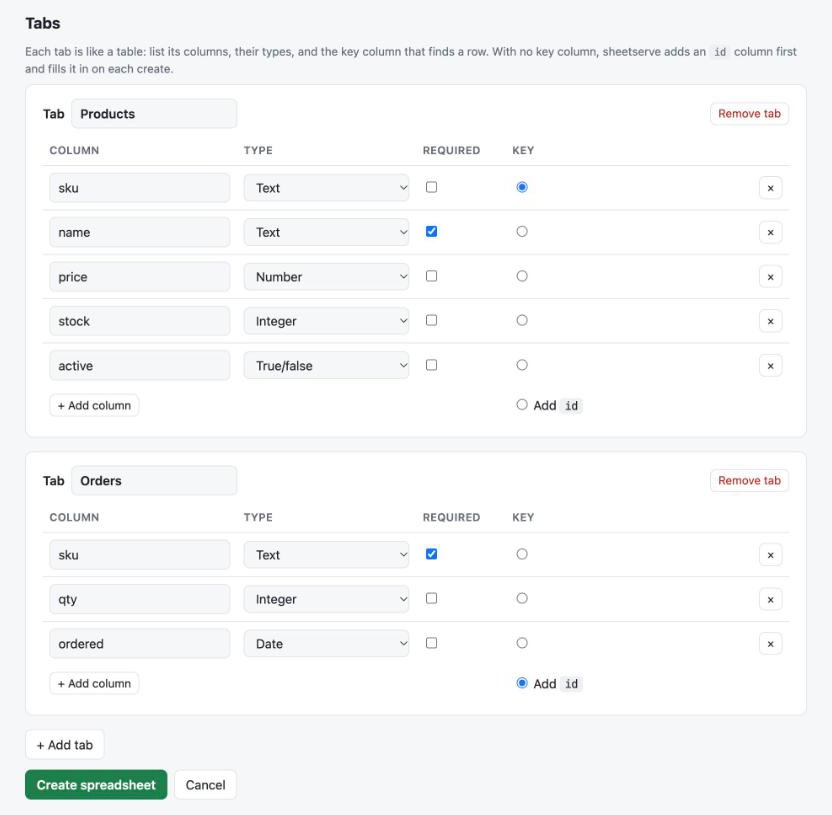
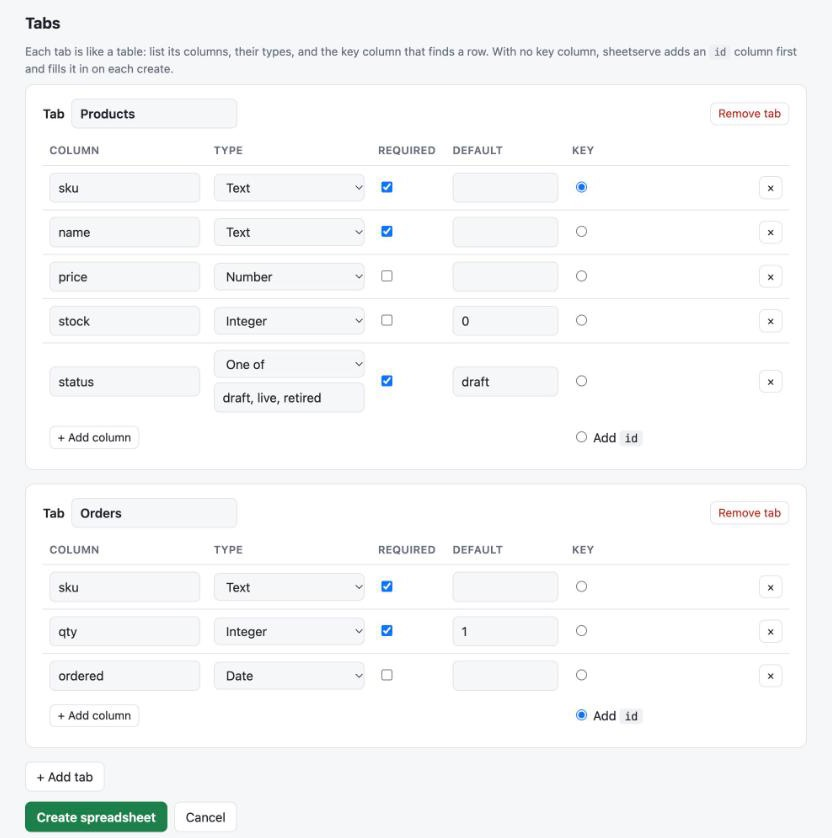
Stamp the commit, send X-Total-Count, refresh the create screenshot
Production logs said version "dev (unknown)". The Dockerfile now takes
a GIT_COMMIT build arg, and when a build has none, the version package
reads RENDER_GIT_COMMIT at startup.

List responses send X-Total-Count, how many rows match the filters
before limit and offset, so clients can page. CORS exposes it, and the
OpenAPI spec documents it.

The README's create-spreadsheet screenshot shows the Default column and
an enum.

diff --git a/internal/service/service.go b/internal/service/service.go
@@ -254,19 +254,20 @@ type cond struct {
 	val string
 }
 
-// List returns rows matching every filter, sorted by sort ("col" or "-col" for descending), then paged.
+// List returns rows matching every filter, sorted by sort ("col" or "-col" for descending), then
+// paged, and how many rows matched before paging.
 // Filter keys are "col" or "col[op]". An exact column name always wins over a sort prefix or filter
 // suffix, so columns named "-x" or "x[ne]" stay reachable.
-func (s *Service) List(ctx context.Context, sheet, tab string, filter map[string]string, sort string, limit, offset int) ([]map[string]any, error) {
+func (s *Service) List(ctx context.Context, sheet, tab string, filter map[string]string, sort string, limit, offset int) (_ []map[string]any, total int, err error) {
 	if limit < 0 {
-		return nil, BadRequest("invalid limit")
+		return nil, 0, BadRequest("invalid limit")
 	}
 	if offset < 0 {
-		return nil, BadRequest("invalid offset")
+		return nil, 0, BadRequest("invalid offset")
 	}
 	snap, err := s.load(ctx, sheet, tab, false)
 	if err != nil {
-		return nil, err
+		return nil, 0, err
 	}
 	visible := s.visibleColumns(snap, sheet, tab)
 	// Filtering or sorting on a hidden column would leak its values.
@@ -282,24 +283,21 @@ func (s *Service) List(ctx context.Context, sheet, tab string, filter map[string
 		if j := strings.LastIndex(k, "["); j > 0 && strings.HasSuffix(k, "]") && !slices.Contains(visible, k) {
 			name, op = k[:j], k[j+1:len(k)-1]
 			if !slices.Contains(filterOps, op) {
-				return nil, BadRequest("unknown operator %q (want one of %v)", op, filterOps)
+				return nil, 0, BadRequest("unknown operator %q (want one of %v)", op, filterOps)
 			}
 		}
 		i, err := column(name)
 		if err != nil {
-			return nil, err
+			return nil, 0, err
 		}
 		col := s.columns(sheet, tab)[name]
 		if v, err = filterValue(col, k, op, v); err != nil {
-			return nil, err
+			return nil, 0, err
 		}
 		conds = append(conds, cond{i, col.Type, op, v})
 	}
 	var matched [][]any
 	for _, row := range snap.rows {
-		if sort == "" && limit > 0 && len(matched) == offset+limit {
-			break // unsorted: the page is already complete
-		}
 		if !slices.ContainsFunc(conds, func(c cond) bool { return !c.match(cell(row, c.col)) }) {
 			matched = append(matched, row)
 		}
@@ -311,7 +309,7 @@ func (s *Service) List(ctx context.Context, sheet, tab string, filter map[string
 		}
 		i, err := column(name)
 		if err != nil {
-			return nil, err
+			return nil, 0, err
 		}
 		slices.SortStableFunc(matched, func(a, b []any) int {
 			c := compare(cell(a, i), cell(b, i))
@@ -321,6 +319,7 @@ func (s *Service) List(ctx context.Context, sheet, tab string, filter map[string
 			return c
 		})
 	}
+	total = len(matched)
 	matched = matched[min(offset, len(matched)):]
 	if limit > 0 {
 		matched = matched[:min(limit, len(matched))]
@@ -329,7 +328,7 @@ func (s *Service) List(ctx context.Context, sheet, tab string, filter map[string
 	for _, row := range matched {
 		out = append(out, s.toObject(snap, row, sheet, tab))
 	}
-	return out, nil
+	return out, total, nil
 }
 
 func cell(row []any, i int) string {

diff --git a/internal/api/api_test.go b/internal/api/api_test.go
@@ -405,7 +405,8 @@ func TestCORS(t *testing.T) {
 		!strings.Contains(rec.Header().Get("Access-Control-Allow-Headers"), "Authorization") {
 		t.Errorf("preflight: %d %v", rec.Code, rec.Header())
 	}
-	if rec := req("GET", "https://app.example"); rec.Code != 401 || rec.Header().Get("Access-Control-Allow-Origin") == "" {
+	if rec := req("GET", "https://app.example"); rec.Code != 401 || rec.Header().Get("Access-Control-Allow-Origin") == "" ||
+		rec.Header().Get("Access-Control-Expose-Headers") != "X-Total-Count" {
 		t.Errorf("actual request should carry CORS headers: %d %v", rec.Code, rec.Header())
 	}
 	if rec := req("OPTIONS", "https://evil.example"); rec.Code == 204 || rec.Header().Get("Access-Control-Allow-Origin") != "" ||
@@ -681,5 +682,39 @@ func TestEnumAndDefaultSchemas(t *testing.T) {
 		if !strings.Contains(spec, want) {
 			t.Errorf("spec lacks %s: %s", want, spec)
 		}
+	}
+}
+
+// A list sends how many rows matched its filters, before limit and offset, as X-Total-Count.
+func TestTotalCount(t *testing.T) {
+	cfg := &db.Settings{
+		Spreadsheets: map[string]db.SheetRule{"shop": {ID: "SS", Tabs: map[string]db.TabRule{"Orders": {Ops: []string{"read"}}}}},
+		Keys:         []db.Key{{Name: "admin", Hash: db.HashKey("admin-key"), Tabs: []string{"*"}}},
+	}
+	if err := cfg.Validate(); err != nil {
+		t.Fatal(err)
+	}
+	store := &fakeStore{tabs: map[string][][]any{"SS/Orders": {{"id", "item"}, {"a", "tea"}, {"b", "mug"}, {"c", "tea"}, {"d", "tea"}}}}
+	h := New(cfg, service.New(cfg, store, 0)).Mux()
+	for path, want := range map[string]struct {
+		total string
+		rows  int
+	}{
+		"/v1/shop/Orders":                           {"4", 4},
+		"/v1/shop/Orders?limit=2":                   {"4", 2},
+		"/v1/shop/Orders?item=tea&limit=1&offset=1": {"3", 1},
+		"/v1/shop/Orders?item=tea&offset=9":         {"3", 0},
+	} {
+		req := httptest.NewRequest("GET", path, nil)
+		req.Header.Set("Authorization", "Bearer admin-key")
+		rec := httptest.NewRecorder()
+		h.ServeHTTP(rec, req)
+		var rows []map[string]any
+		if err := json.Unmarshal(rec.Body.Bytes(), &rows); err != nil || rec.Header().Get("X-Total-Count") != want.total || len(rows) != want.rows {
+			t.Errorf("%s: total %q, %d rows (%v), want %s and %d", path, rec.Header().Get("X-Total-Count"), len(rows), err, want.total, want.rows)
+		}
+	}
+	if _, spec := call(t, h, "GET", "/openapi.json", "admin-key", ""); !strings.Contains(spec, `"headers":{"X-Total-Count":`) {
+		t.Errorf("spec has no X-Total-Count: %s", spec)
 	}
 }

diff --git a/internal/service/service_test.go b/internal/service/service_test.go
@@ -66,7 +66,7 @@ func TestDatesAndTypedFilters(t *testing.T) {
 	}
 	svc := New(cfg, st, 0)
 	ctx := context.Background()
-	rows, err := svc.List(ctx, "shop", "Tasks", nil, "", 0, 0)
+	rows, _, err := svc.List(ctx, "shop", "Tasks", nil, "", 0, 0)
 	if err != nil || len(rows) != 2 || rows[0]["due"] != "2026-11-05" || rows[0]["at"] != "2026-11-05T09:30:00Z" || rows[1]["due"] != "soon" {
 		t.Fatalf("list: %v %v", rows, err)
 	}
@@ -80,7 +80,7 @@ func TestDatesAndTypedFilters(t *testing.T) {
 		"points[contains]=8":               {"a"},
 	} {
 		k, v, _ := strings.Cut(filter, "=")
-		got, err := svc.List(ctx, "shop", "Tasks", map[string]string{k: v}, "", 0, 0)
+		got, _, err := svc.List(ctx, "shop", "Tasks", map[string]string{k: v}, "", 0, 0)
 		var ids []string
 		for _, r := range got {
 			ids = append(ids, r["id"].(string))
@@ -95,7 +95,7 @@ func TestDatesAndTypedFilters(t *testing.T) {
 		"due=11/5/2026":   "due must be a date like 2026-01-31",
 	} {
 		k, v, _ := strings.Cut(filter, "=")
-		if _, err := svc.List(ctx, "shop", "Tasks", map[string]string{k: v}, "", 0, 0); err == nil || !strings.Contains(err.Error(), msg) {
+		if _, _, err := svc.List(ctx, "shop", "Tasks", map[string]string{k: v}, "", 0, 0); err == nil || !strings.Contains(err.Error(), msg) {
 			t.Errorf("filter %s: %v, want %q", filter, err, msg)
 		}
 	}
@@ -160,10 +160,10 @@ func TestDefaultsOnCreate(t *testing.T) {
 	if _, err := svc.Create(ctx, "shop", "Orders", map[string]any{"status": "lost"}); err == nil || !strings.Contains(err.Error(), "status must be one of new, paid") {
 		t.Errorf("bad enum: %v", err)
 	}
-	if _, err := svc.List(ctx, "shop", "Orders", map[string]string{"status": "lost"}, "", 0, 0); err == nil || !strings.Contains(err.Error(), "status must be one of new, paid") {
+	if _, _, err := svc.List(ctx, "shop", "Orders", map[string]string{"status": "lost"}, "", 0, 0); err == nil || !strings.Contains(err.Error(), "status must be one of new, paid") {
 		t.Errorf("bad enum filter: %v", err)
 	}
-	if _, err := svc.List(ctx, "shop", "Orders", map[string]string{"status[contains]": "pa"}, "", 0, 0); err != nil {
+	if _, _, err := svc.List(ctx, "shop", "Orders", map[string]string{"status[contains]": "pa"}, "", 0, 0); err != nil {
 		t.Errorf("enum contains: %v", err)
 	}
 }

diff --git a/internal/api/api.go b/internal/api/api.go
@@ -109,6 +109,7 @@ func CORS(origins []string, next http.Handler) http.Handler {
 		}
 		h := w.Header()
 		h.Set("Access-Control-Allow-Origin", origin)
+		h.Set("Access-Control-Expose-Headers", "X-Total-Count") // so browser apps can page through a list
 		if r.Method == http.MethodOptions && r.Header.Get("Access-Control-Request-Method") != "" {
 			h.Set("Access-Control-Allow-Methods", "GET, POST, PATCH, DELETE")
 			h.Set("Access-Control-Allow-Headers", "Authorization, Content-Type, Mcp-Protocol-Version, Mcp-Session-Id")
@@ -144,6 +145,10 @@ func endpoint(op string, h handlerFunc) http.Handler {
 		}
 		if status == http.StatusTooManyRequests {
 			w.Header().Set("Retry-After", "60") // Google's read quota is per minute
+		}
+		if p, ok := body.(page); ok {
+			w.Header().Set("X-Total-Count", strconv.Itoa(p.total))
+			body = p.rows
 		}
 		writeJSON(w, status, body)
 		keyName := ""
@@ -188,8 +193,15 @@ func (a *API) list(r *http.Request, sheet, tab string) (int, any, error) {
 			return 0, nil, service.BadRequest("invalid %s", k)
 		}
 	}
-	rows, err := a.svc.List(r.Context(), sheet, tab, filter, sort, limit, offset)
-	return http.StatusOK, rows, err
+	rows, total, err := a.svc.List(r.Context(), sheet, tab, filter, sort, limit, offset)
+	return http.StatusOK, page{rows, total}, err
+}
+
+// page is a list's rows, with how many rows matched before limit and offset, which the response
+// sends as X-Total-Count.
+type page struct {
+	rows  []map[string]any
+	total int
 }
 
 func (a *API) get(r *http.Request, sheet, tab string) (int, any, error) {

diff --git a/internal/version/version.go b/internal/version/version.go
@@ -1,11 +1,13 @@
 // Package version holds build-time identifying information, injected via
-// -ldflags -X at compile time (see Dockerfile and Dockerfile.worker). Both
+// -ldflags -X at compile time (see Dockerfile), or for Commit read from
+// RENDER_GIT_COMMIT at startup. Both
 // vars keep their zero-value defaults for `go run`/`go test` and any build
 // that doesn't pass the flags.
 package version
 
 import (
 	"fmt"
+	"os"
 	"strings"
 	"time"
 )
@@ -17,6 +19,18 @@ var (
 	// Commit is the short git commit SHA this binary was built from.
 	Commit = "unknown"
 )
+
+// Render sets RENDER_GIT_COMMIT on a running service, so a build that wasn't given the commit still
+// says which one it is.
+func init() { Commit = commitOr(Commit, os.Getenv("RENDER_GIT_COMMIT")) }
+
+// commitOr returns commit, or the short form of sha when commit is "unknown" and sha is set.
+func commitOr(commit, sha string) string {
+	if commit != "unknown" || sha == "" {
+		return commit
+	}
+	return sha[:min(len(sha), 7)]
+}
 
 // Started is when this process booted. It's captured at package
 // initialization, which happens before main and before any server or worker

diff --git a/internal/api/openapi.go b/internal/api/openapi.go
@@ -71,6 +71,8 @@ func (a *API) openAPI(ctx context.Context, key *db.Key) obj {
 					}
 				}
 				list := operation(name+"_list", "List rows in "+sheet+"/"+tab, params, nil, "200", obj{"type": "array", "items": ref})
+				list["responses"].(obj)["200"].(obj)["headers"] = obj{"X-Total-Count": obj{
+					"description": "how many rows match the filters, before limit and offset", "schema": obj{"type": "integer"}}}
 				list["description"] = "Filter with col=value for an exact match, or col[op]=value where op is one of " +
 					strings.Join(service.FilterOperators(), ", ") + ". gt/gte/lt/lte compare numbers numerically, else as strings, with numbers before strings; contains ignores case."
 				coll["get"] = list

diff --git a/internal/version/version_test.go b/internal/version/version_test.go
@@ -40,3 +40,16 @@ func TestStartedAndUptime(t *testing.T) {
 	require.Positive(t, first)
 	require.GreaterOrEqual(t, Uptime(), first, "uptime must not go backwards")
 }
+
+func TestCommitOr(t *testing.T) {
+	for _, c := range []struct{ commit, sha, want string }{
+		{"unknown", "", "unknown"},
+		{"unknown", "0123456789abcdef", "0123456"},
+		{"unknown", "abc", "abc"},
+		{"fedcba9", "0123456789abcdef", "fedcba9"}, // set at build time
+	} {
+		if got := commitOr(c.commit, c.sha); got != c.want {
+			t.Errorf("commitOr(%q, %q) = %q, want %q", c.commit, c.sha, got, c.want)
+		}
+	}
+}

diff --git a/internal/integration/live_test.go b/internal/integration/live_test.go
@@ -116,7 +116,7 @@ func TestLive(t *testing.T) {
 	if _, err := svc.Get(ctx, "live", tab, idA); !errors.As(err, &notFound) || notFound.Status != http.StatusNotFound {
 		t.Fatalf("deleted row still readable: %v", err)
 	}
-	rows, err := svc.List(ctx, "live", tab, map[string]string{"item": "tea"}, "", 0, 0)
+	rows, _, err := svc.List(ctx, "live", tab, map[string]string{"item": "tea"}, "", 0, 0)
 	if err != nil || len(rows) != 1 || rows[0]["id"] != idB || rows[0]["qty"] != float64(7) {
 		t.Fatalf("list after delete: %v %v", rows, err)
 	}

diff --git a/internal/api/mcp.go b/internal/api/mcp.go
@@ -201,7 +201,8 @@ func (a *API) addTabTools(srv *mcp.Server, key *db.Key, name, sheet, tab, rowKey
 					Offset int               `json:"offset"`
 				},
 				) (any, error) {
-					return a.svc.List(ctx, sheet, tab, in.Filter, in.Sort, in.Limit, in.Offset)
+					rows, _, err := a.svc.List(ctx, sheet, tab, in.Filter, in.Sort, in.Limit, in.Offset)
+					return rows, err
 				})
 			if rowKey != "" {
 				addTool(srv, key, name+"_get", "Get one row in "+where+" by its "+rowKey+".", idSchema,

diff --git a/README.md b/README.md
@@ -98,7 +98,7 @@ The server creates the spreadsheet in your Drive with your Google account, write
 and saves the column types. A tab with no key column gets an `id` column first, unless you list one.
 `drive.file` covers files the app creates, so you don't need to pick it.
 
-![The Create a spreadsheet form: a Products tab keyed by sku and an Orders tab that gets an id column, each with typed columns](docs/images/create-spreadsheet.jpg)
+![The Create a spreadsheet form: a Products tab keyed by sku with a status that is one of draft, live or retired, and an Orders tab that gets an id column, with defaults for stock, status and qty](docs/images/create-spreadsheet.jpg)
 
 A key acts through the Google account of the user who made it.
 
@@ -135,6 +135,7 @@ In a column that mixes numbers and text, numbers sort before text.
 `contains` ignores case. A row must match every filter.
 
 `sort=col` sorts ascending and `sort=-col` sorts descending, with the same comparison rules. Sorting happens before `limit` and `offset`.
+A list's `X-Total-Count` header says how many rows match its filters, before `limit` and `offset`, so a client knows how many pages there are.
 
 A successful create returns `201`. Errors use these status codes:
 
